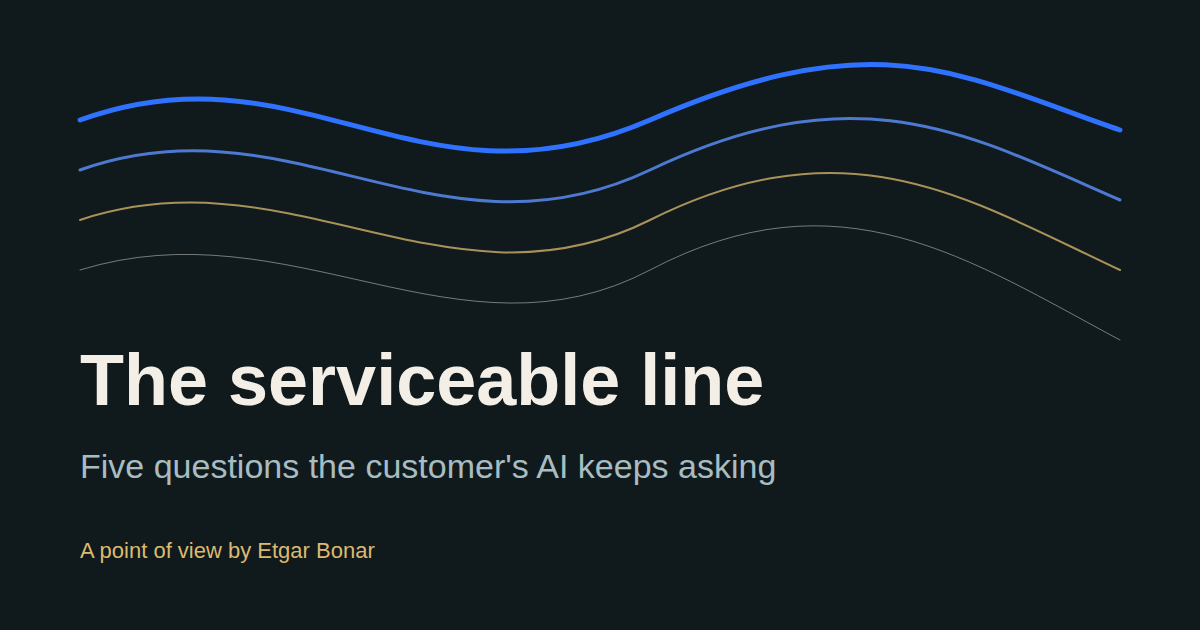
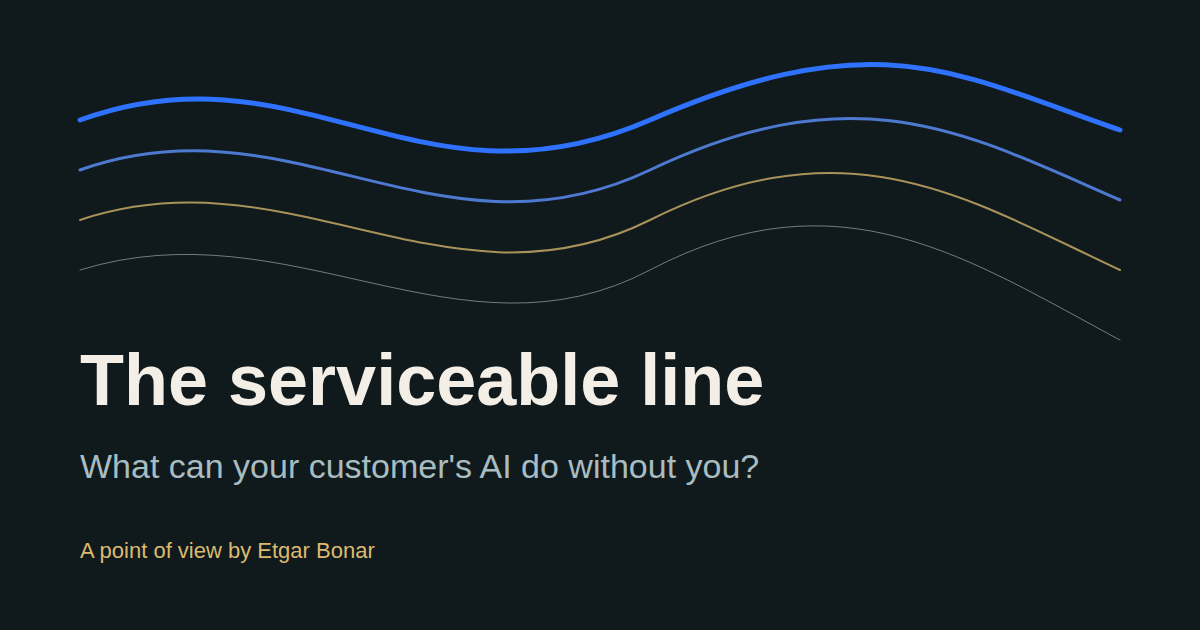
Serviceable line: unify titles on 'What Can Your Customer's AI Do Without You?'
- Title, og/twitter titles, JSON-LD headline and meta descriptions share one wording
- H1 gains the question as a subtitle; H2 full stops removed for consistency
- Evidence row three rewritten (no undefined 'ceiling', no repetition)
- Social card regenerated with the new subtitle; image URL versioned to refresh caches
- llms.txt page label and Hebrew JSON subtitle and evidence row three follow

Changed region(s): [[0.0617, 0.7238, 0.6475, 0.7841]]

diff --git a/serviceable-line/index.html b/serviceable-line/index.html
@@ -3,15 +3,15 @@
 <head>
   <meta charset="utf-8">
   <meta name="viewport" content="width=device-width, initial-scale=1">
-  <title>The Serviceable Line | Five Questions for AI-Mediated GTM</title>
-  <meta name="description" content="How far can a customer's AI get without you? The serviceable line is the share of the market, and of each customer's journey, you can win without adding people.">
+  <title>The Serviceable Line: What Can Your Customer's AI Do Without You?</title>
+  <meta name="description" content="What can a customer's AI do without you? The serviceable line is the share of the market, and of each customer's journey, you can win without adding people.">
   <meta name="author" content="Etgar Bonar">
   <meta name="robots" content="index,follow,max-image-preview:large,max-snippet:-1">
   <link rel="canonical" href="https://etgarbonar.com/serviceable-line/">
   <link rel="alternate" hreflang="en" href="https://etgarbonar.com/serviceable-line/">
   <link rel="alternate" hreflang="x-default" href="https://etgarbonar.com/serviceable-line/">
   <link rel="alternate" type="application/json" href="https://etgarbonar.com/machine/he/serviceable-line.json" title="Hebrew machine-readable thesis">
-  <link rel="stylesheet" href="/styles.css?v=18">
+  <link rel="stylesheet" href="/styles.css?v=19">
   <link rel="icon" href="/favicon.ico" sizes="any">
   <link rel="icon" type="image/png" sizes="48x48" href="/assets/favicon-48.png">
   <link rel="icon" type="image/png" sizes="32x32" href="/assets/favicon-32.png">
@@ -19,15 +19,15 @@
   <link rel="apple-touch-icon" href="/assets/icon-180.png">
   <meta property="og:type" content="article">
   <meta property="og:site_name" content="Etgar Bonar">
-  <meta property="og:title" content="The Serviceable Line | Five Questions for AI-Mediated GTM">
-  <meta property="og:description" content="How far can a customer's AI get without you? The serviceable line is the share of the market, and of each customer's journey, you can win without adding people.">
+  <meta property="og:title" content="The Serviceable Line: What Can Your Customer's AI Do Without You?">
+  <meta property="og:description" content="What can a customer's AI do without you? The serviceable line is the share of the market, and of each customer's journey, you can win without adding people.">
   <meta property="og:url" content="https://etgarbonar.com/serviceable-line/">
-  <meta property="og:image" content="https://etgarbonar.com/assets/serviceable-line-card.png">
-  <meta property="og:image:alt" content="The Serviceable Line, five questions for AI-mediated go-to-market">
+  <meta property="og:image" content="https://etgarbonar.com/assets/serviceable-line-card.png?v=2">
+  <meta property="og:image:alt" content="The Serviceable Line: what can your customer's AI do without you? A point of view by Etgar Bonar">
   <meta name="twitter:card" content="summary_large_image">
-  <meta name="twitter:title" content="The Serviceable Line | Etgar Bonar">
-  <meta name="twitter:description" content="How far can a customer's AI get without you? The serviceable line is the share of the market, and of each customer's journey, you can win without adding people.">
-  <meta name="twitter:image" content="https://etgarbonar.com/assets/serviceable-line-card.png">
+  <meta name="twitter:title" content="The Serviceable Line: What Can Your Customer's AI Do Without You?">
+  <meta name="twitter:description" content="What can a customer's AI do without you? The serviceable line is the share of the market, and of each customer's journey, you can win without adding people.">
+  <meta name="twitter:image" content="https://etgarbonar.com/assets/serviceable-line-card.png?v=2">
   <script type="application/ld+json">
   {
     "@context": "https://schema.org",
@@ -49,7 +49,7 @@
         "@type": "Article",
         "@id": "https://etgarbonar.com/serviceable-line/#article",
         "url": "https://etgarbonar.com/serviceable-line/",
-        "headline": "The Serviceable Line: Five Questions the Customer's AI Keeps Asking",
+        "headline": "The Serviceable Line: What Can Your Customer's AI Do Without You?",
         "description": "A point of view on how AI changes discovery, comparison, integration, operation, and recovery across the customer journey.",
         "inLanguage": "en",
         "datePublished": "2026-08-29",
@@ -81,7 +81,7 @@
       <header class="article-hero section-dark">
         <div class="article-heading">
           <p class="eyebrow light">A point of view by Etgar Bonar</p>
-          <h1>The serviceable line</h1>
+          <h1>The serviceable line <span class="h1-sub">What can your customer's AI do without you?</span></h1>
           <p class="article-deck">Increasingly, the work of finding, comparing, connecting, running and fixing your product is done by the customer's AI. How far it gets without you depends on two things: how much work your customers hand to AI, and how legible your product is to it. That distance is your serviceable line.</p>
           <p class="article-meta">Published <time datetime="2026-08-29">29 August 2026</time> · Updated <time datetime="2026-09-24">24 September 2026</time> · 4 minute read</p>
         </div>
@@ -137,7 +137,7 @@
 
         <section aria-labelledby="silent-title">
           <p class="eyebrow">The silent losses</p>
-          <h2 id="silent-title">The funnel cannot report what never entered it.</h2>
+          <h2 id="silent-title">The funnel cannot report what never entered it</h2>
           <div class="loss-grid">
             <div><h3>Omission</h3><p>A capability is real but poorly described. The buyer's AI compares you against a smaller version of yourself, and the company never knows the capability was missing from the decision.</p></div>
             <div><h3>Disillusion</h3><p>The buyer arrives with an implementation plan assembled from public material. The plan is wrong, so activation stalls and the failure becomes evidence for the next buyer.</p></div>
@@ -146,7 +146,7 @@
 
         <section aria-labelledby="ownership-title">
           <p class="eyebrow">The vacancy</p>
-          <h2 id="ownership-title">Five answers, five teams, no owner.</h2>
+          <h2 id="ownership-title">Five answers, five teams, no owner</h2>
           <p>How a company is represented to machines is split across marketing, product, pricing, partnerships, documentation, and support. Each team may be doing its part well, while nobody owns whether the answers add up across the full customer journey.</p>
           <p>This is a commercial job because the failure appears as lost consideration, lower conversion, slow activation, higher cost to serve, and quiet churn. The owner needs the authority to coordinate the whole system and the discipline to measure it end to end.</p>
         </section>
@@ -157,7 +157,7 @@
           <div class="evidence-columns">
             <div><span>Built and measured</span><h3>Discovery</h3><p>At <a href="/#record">Lokalise</a>, I built the AI-discovery operating model and measured category leadership across approximately 1,000 high-value prompts.</p></div>
             <div><span>Operating evidence</span><h3>The human version</h3><p>Across <a href="/#record">Amazon, Taboola, and Rapyd</a>, I worked on the same commercial questions for people using interfaces: compare, connect, run, and recover without expensive help at every step.</p></div>
-            <div class="is-forecast"><span>To be tested</span><h3>The rate at which the ceiling rises per industry</h3><p>The mechanism is proven in the human version. What is unproven is the rate at which the ceiling rises per industry.</p></div>
+            <div class="is-forecast"><span>To be tested</span><h3>How fast each industry moves</h3><p>The mechanism is proven in the human version. What is unproven is how quickly buyers in each industry hand this work to AI, which sets how far the line can move.</p></div>
           </div>
         </section>
 

diff --git a/styles.css b/styles.css
@@ -440,6 +440,7 @@ h3 { font-weight: 750; letter-spacing: -.025em; }
 .article-heading { max-width: 820px; }
 .article-hero h1 { margin-bottom: 1.5rem; font-size: clamp(3rem, 5.4vw, 5rem); }
 .article-deck { max-width: 760px; color: var(--mint); font: 500 clamp(1.35rem, 2.4vw, 2rem)/1.35 var(--sans); }
+.article-heading h1 .h1-sub { display: block; margin-top: .4em; max-width: 30ch; color: var(--paper-bright); font-size: .4em; font-weight: 600; line-height: 1.2; letter-spacing: -.01em; opacity: .92; }
 .article-meta { margin-top: 2rem; margin-bottom: 0; color: #93a6aa; font-size: .8rem; }
 
 .frontier-lines { min-height: 360px; position: relative; }
